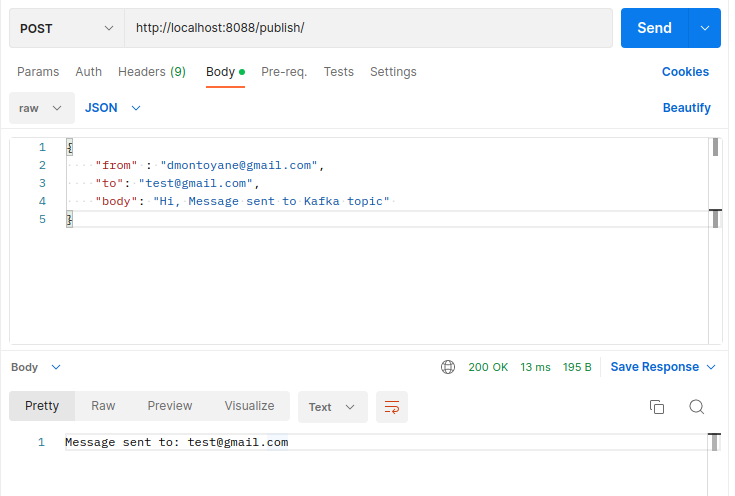
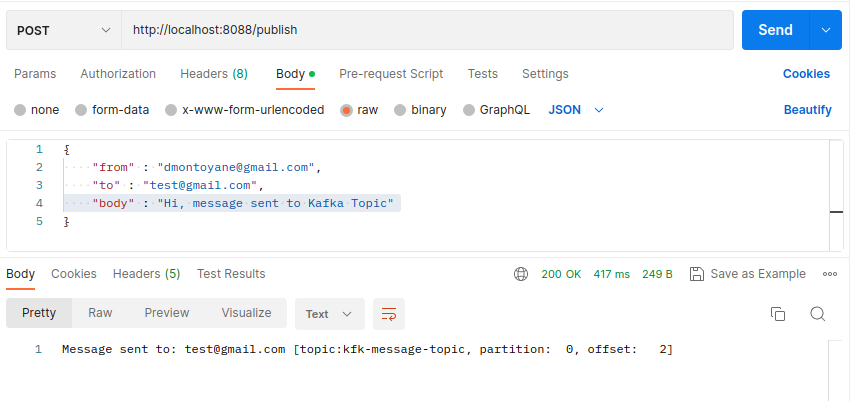
Implementation of integration test with Testcontainers.

diff --git a/src/test/java/com/denilsson/kafka/producer/service/KafkaTestcontainerTest.java b/src/test/java/com/denilsson/kafka/producer/service/KafkaTestcontainerTest.java
@@ -1,66 +1,63 @@
 package com.denilsson.kafka.producer.service;
 
-import com.denilsson.kafka.producer.config.KafkaProducerConfig;
 import com.denilsson.kafka.producer.dto.Message;
-import com.denilsson.kafka.producer.service.MessageService;
-import org.apache.kafka.clients.NetworkClient;
-import org.apache.kafka.clients.producer.internals.TransactionManager;
-import org.junit.ClassRule;
 import org.junit.jupiter.api.AfterAll;
-import org.junit.jupiter.api.BeforeAll;
 import org.junit.jupiter.api.Test;
-import org.junit.jupiter.api.TestInstance;
+import org.slf4j.Logger;
+import org.slf4j.LoggerFactory;
 import org.springframework.beans.factory.annotation.Autowired;
-import org.springframework.boot.availability.ApplicationAvailabilityBean;
 import org.springframework.boot.test.context.SpringBootTest;
-import org.springframework.context.annotation.PropertySource;
-import org.springframework.kafka.core.KafkaTemplate;
 import org.springframework.test.context.ActiveProfiles;
 import org.springframework.test.context.DynamicPropertyRegistry;
 import org.springframework.test.context.DynamicPropertySource;
 import org.testcontainers.containers.KafkaContainer;
 import org.testcontainers.utility.DockerImageName;
+import java.util.concurrent.ExecutionException;
 
-//@SpringBootTest
+
+import static org.assertj.core.api.Assertions.assertThat;
+
 
 
 @SpringBootTest(webEnvironment = SpringBootTest.WebEnvironment.RANDOM_PORT)
-
 @ActiveProfiles("test")
+
 public class KafkaTestcontainerTest {
 
-    @Autowired
-    KafkaTemplate kafkaTemplate;
+    static Logger logger = LoggerFactory.getLogger(KafkaTestcontainerTest.class);
+
     @Autowired
     MessageService messageService;
+
     static KafkaContainer kafkaContainer = new KafkaContainer(DockerImageName.parse("confluentinc/cp-kafka:7.3.2"));
 
-
-    @DynamicPropertySource
-    static void registerProperties(DynamicPropertyRegistry registry) {
-        registry.add("spring.kafka.bootstrap-servers", kafkaContainer::getBootstrapServers);
-        registry.add("kafka.producer.topic ", () -> "kfk-message-topic");
-    }
-
-
-    static {
+    static{
         kafkaContainer.start();
     }
 
-    @Test
-    public void shouldSendMessageToKafka(){
+    @DynamicPropertySource
+    static void registerProperties(DynamicPropertyRegistry registry) {
+        registry.add("kafka.producer.bootstrap-servers", () -> kafkaContainer.getBootstrapServers());
+        registry.add("kafka.producer.topic ", () -> "kfk-message-topic");
+    }
 
+    @Test
+    public void shouldSendMessageToKafka() throws ExecutionException, InterruptedException {
         Message message = Message.builder()
                 .from("dmontoyane@gmail.com")
                 .to("test@gmail.com")
                 .body("Message sent to kafka container")
                 .build();
-        messageService.sendMessageEvent(message);
+        String kafkaMessage = messageService.sendMessageEvent(message).get();
+        logger.info(kafkaMessage);
+        assertThat(kafkaMessage).startsWith("Message sent to: ");
     }
 
     @AfterAll
     static void stopAll(){
+        logger.info("Stopping kafka container ");
         kafkaContainer.stop();
+        logger.info("kafka container stopped ");
     }
 
 }

diff --git a/src/main/java/com/denilsson/kafka/producer/config/KafkaProducerConfig.java b/src/main/java/com/denilsson/kafka/producer/config/KafkaProducerConfig.java
@@ -1,19 +1,13 @@
 package com.denilsson.kafka.producer.config;
 
-import java.util.HashMap;
 import java.util.Map;
-
 import com.denilsson.kafka.producer.dto.Message;
-import org.apache.kafka.clients.admin.AdminClientConfig;
-import org.apache.kafka.clients.admin.NewTopic;
 import org.apache.kafka.clients.producer.ProducerConfig;
 import org.apache.kafka.common.serialization.StringSerializer;
 import org.springframework.beans.factory.annotation.Value;
 import org.springframework.context.annotation.Bean;
 import org.springframework.context.annotation.Configuration;
-import org.springframework.kafka.config.TopicBuilder;
 import org.springframework.kafka.core.DefaultKafkaProducerFactory;
-import org.springframework.kafka.core.KafkaAdmin;
 import org.springframework.kafka.core.KafkaTemplate;
 import org.springframework.kafka.core.ProducerFactory;
 import org.springframework.kafka.support.serializer.JsonSerializer;
@@ -21,10 +15,8 @@ import org.springframework.kafka.support.serializer.JsonSerializer;
 @Configuration
 public class KafkaProducerConfig {
 
-    @Value("${spring.kafka.bootstrap-servers}")
+    @Value("${kafka.producer.bootstrap-servers}")
     private String bootstrapServers;
-
-
 
     @Bean
     public Map<String, Object> producerConfigs(){
@@ -41,7 +33,7 @@ public class KafkaProducerConfig {
 
     @Bean
     public KafkaTemplate<String, Message> kafkaTemplate() {
-        return new KafkaTemplate<String,Message>(producerFactory());
+        return new KafkaTemplate<>(producerFactory());
     }
 
 }

diff --git a/src/main/java/com/denilsson/kafka/producer/config/KafkaTopicConfig.java b/src/main/java/com/denilsson/kafka/producer/config/KafkaTopicConfig.java
@@ -1,16 +1,9 @@
 package com.denilsson.kafka.producer.config;
 
-import java.util.HashMap;
-import java.util.Map;
-
-import org.apache.kafka.clients.admin.AdminClientConfig;
 import org.apache.kafka.clients.admin.NewTopic;
 import org.springframework.beans.factory.annotation.Value;
-import org.springframework.context.annotation.Bean;
 import org.springframework.context.annotation.Configuration;
-import org.springframework.context.annotation.Primary;
 import org.springframework.kafka.config.TopicBuilder;
-import org.springframework.kafka.core.KafkaAdmin;
 
 @Configuration
 public class KafkaTopicConfig {
@@ -18,18 +11,7 @@ public class KafkaTopicConfig {
     @Value("${kafka.producer.topic}")
     private String kafkaTopic;
 
-    @Value("${spring.kafka.bootstrap-servers}")
-    private String bootstrapServers;
-
-    @Bean
-    public KafkaAdmin kafkaAdmin() {
-        return new KafkaAdmin(Map.of(AdminClientConfig.BOOTSTRAP_SERVERS_CONFIG, bootstrapServers));
-    }
-
-    @Bean
-    @Primary
     public NewTopic createNewTopic (){
-        return TopicBuilder.name(kafkaTopic).compact().build();
+        return TopicBuilder.name(kafkaTopic).build();
     }
-
 }

diff --git a/src/main/java/com/denilsson/kafka/producer/service/MessageService.java b/src/main/java/com/denilsson/kafka/producer/service/MessageService.java
@@ -6,7 +6,6 @@ import com.denilsson.kafka.producer.dto.Message;
 import lombok.RequiredArgsConstructor;
 import lombok.extern.slf4j.Slf4j;
 import org.springframework.beans.factory.annotation.Value;
-import org.springframework.kafka.core.KafkaAdmin;
 import org.springframework.kafka.core.KafkaTemplate;
 import org.springframework.stereotype.Service;
 
@@ -19,9 +18,15 @@ public class MessageService {
 
     @Value("${kafka.producer.topic}")
     private String kafkaTopicToSendMessage;
+
     public CompletableFuture<String> sendMessageEvent(Message message){
         return kafkaTemplate.send(kafkaTopicToSendMessage, message.getFrom(), message)
-                .thenApply( event -> "Message sent to: " + event.getProducerRecord().value().getTo());
+                .thenApply((event) -> String.format("Message sent to: %1s [topic:%2s, partition:%3s, offset:%4s]",
+                        event.getProducerRecord().value().getTo(),
+                        event.getRecordMetadata().topic(),
+                        event.getRecordMetadata().partition(),
+                        event.getRecordMetadata().offset()));
+
     }
 
 }

diff --git a/src/main/java/com/denilsson/kafka/producer/controller/MessageController.java b/src/main/java/com/denilsson/kafka/producer/controller/MessageController.java
@@ -15,7 +15,7 @@ public class MessageController {
 
     private final MessageService messageService;
 
-    @PostMapping("/publish/")
+    @PostMapping("/publish")
     public CompletableFuture<String> publishMessage(@RequestBody Message message) {
         return messageService.sendMessageEvent(message);
     }

diff --git a/README.md b/README.md
@@ -25,7 +25,7 @@ Execute following commands to build and run the Kafka-producer project.
 
 This project will automatically create a Kafka topic called _kfk-message-topic_, this topic will be used to store all message sent by this producer.
 
-Endpoint _publish/_ is going to be available at http://localhost:8088/publish/. Using this endpoint we can send a message having the following structure.
+Endpoint _publish/_ is going to be available at http://localhost:8088/publish. Using this endpoint we can send a message having the following structure.
 
 RequestBody Example:
 
